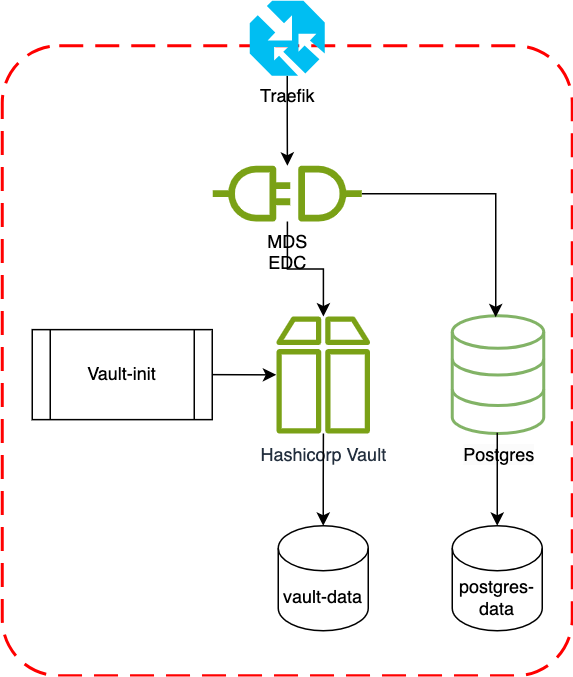
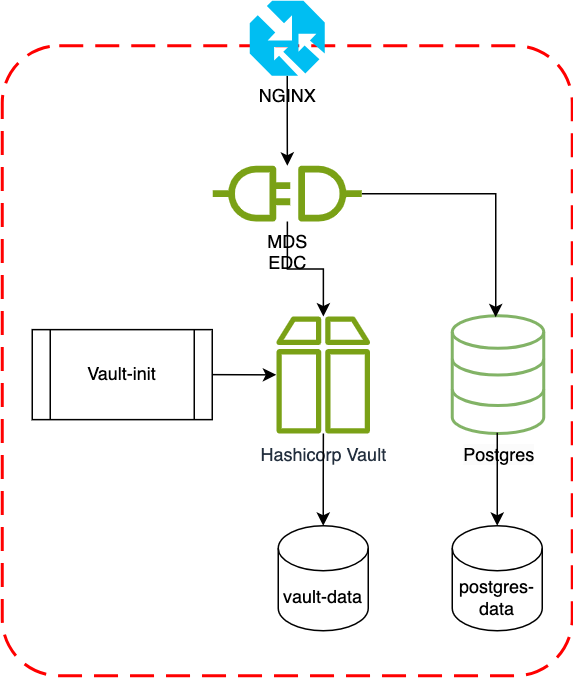
docs: update deployment guides to support Nginx with Certbot for letsencrypt

diff --git a/README.md b/README.md
@@ -24,7 +24,6 @@ docker build --build-arg RUNTIME="connector-inmemory" launchers
 #### Vault PostgreSQL connector
 ### Vault PostgreSQL connector
 ```
-docker build --build-arg RUNTIME="connector-vault-postresql" launchers
 docker build --build-arg RUNTIME="connector-vault-postgresql" launchers
 ```
 
@@ -48,17 +47,17 @@ docker build --build-arg RUNTIME="connector-vault-postgresql" launchers
 
 The deployment architecture consists of the following components:
 
-1. Traefik: Acts as a reverse proxy and handles SSL/TLS termination. It routes incoming requests to the appropriate services and manages Let's Encrypt certificates for HTTPS.
+1. Nginx: Acts as a reverse proxy and handles SSL/TLS termination. It routes incoming requests to the appropriate services.
 
-2. MDS EDC: The core component of the MDS (Mobility Data Space) Connector. It handles data exchange, policy enforcement, and integration with other participants in the dataspace.
+2. Certbot: Manages SSL/TLS certificates using Let's Encrypt for HTTPS.
 
-3. PostgreSQL: Provides persistent storage for the EDC, storing configuration data, policies, and other necessary information.
+3. MDS EDC: The core component of the MDS (Mobility Data Space) Connector. It handles data exchange, policy enforcement, and integration with other participants in the dataspace.
 
-4. Vault: HashiCorp Vault is used for secure secret management. It stores sensitive information such as API keys, certificates, and passwords, which are then injected into the EDC service.
+4. PostgreSQL: Provides persistent storage for the EDC, storing configuration data, policies, and other necessary information.
 
-5. Vault-init: A helper service that initializes and configures the Vault with necessary secrets during deployment.
+5. Vault: HashiCorp Vault is used for secure secret management. It stores sensitive information such as API keys, certificates, and passwords, which are then injected into the EDC service.
 
-This architecture ensures a secure, scalable, and maintainable deployment of the MDS Connector. Traefik handles incoming traffic and SSL, the EDC processes data requests and enforces policies, PostgreSQL provides persistent storage, and Vault manages secrets securely.
+6. Vault-init: A helper service that initializes and configures the Vault with necessary secrets during deployment.
 
 ### Configuration
 
@@ -73,9 +72,9 @@ This architecture ensures a secure, scalable, and maintainable deployment of the
 
    ```
    # MDS EDC Configuration
-   EDC_HOSTNAME=your-domain.com
+   EDC_HOSTNAME=yourdomain.com
    EDC_PARTICIPANT_ID=your-participant-id
-   ACME_EMAIL=your@email.com
+   CERTBOT_EMAIL=your@email.com
 
    # DAPS (Dynamic Attribute Provisioning Service) Configuration
    DAPS_URL=https://daps.demo.mobility-dataspace.eu/realms/DAPS/protocol/openid-connect
@@ -89,10 +88,14 @@ This architecture ensures a secure, scalable, and maintainable deployment of the
 
    # Vault Configuration
    VAULT_TOKEN=your-vault-token
-   VAULT_HOSTNAME=vault.localhost
    ```
 
    Ensure you replace all placeholder values with your actual configuration details.
+
+4. Update the Nginx configuration files:
+   - Edit `init.nginx.conf` and `secure.nginx.conf` to match your domain and desired server configuration.
+   - In both files, replace `yourdomain.com` with your actual domain name.
+   - Adjust any other settings as needed for your specific deployment.
 
    To generate the P12_CONTENT for your .env file:
 
@@ -111,67 +114,80 @@ This architecture ensures a secure, scalable, and maintainable deployment of the
 
    Note: The P12_CONTENT is a required variable in your .env file. It contains the base64 encoded content of your p12 certificate file.
 
-4. (Optional) For testing with self-signed certificates, modify the `traefik` service in `docker-compose.yml`:
-   ```yaml
-   traefik:
-     # ... other configurations ...
-     command:
-       # ... other commands ...
-       - "--certificatesresolvers.myresolver.acme.caserver=https://acme-staging-v02.api.letsencrypt.org/directory"
-   ```
-
-   This uses Let's Encrypt's staging server for testing. Remove this line for production use.
-
 ### Deployment Steps
 
-1. Ensure the `init-vault.sh` script is in the same directory as your `docker-compose.yml` file.
+1. Ensure the `init-vault.sh` and `init-letsencrypt.sh` scripts are in the same directory as your `docker-compose.yml` file.
 
-2. Make the script executable:
+2. Make the scripts executable:
    ```
-   chmod +x init-vault.sh
+   chmod +x init-vault.sh init-letsencrypt.sh
    ```
 
-3. Start the services:
+3. Update your `docker-compose.yml` file to use the initial Nginx configuration:
+   ```yaml
+   nginx:
+     ...
+     volumes:
+       - ./init.nginx.conf:/etc/nginx/nginx.conf
+   ```
+
+4. Initialize SSL certificates:
+   ```
+   ./init-letsencrypt.sh
+   ```
+   This script will start the Nginx service with the initial configuration and set up SSL certificates using Let's Encrypt. It will prompt you to confirm before replacing any existing certificates.
+
+5. After successfully obtaining the certificates, update your `docker-compose.yml` file to use the secure Nginx configuration:
+   ```yaml
+   nginx:
+     ...
+     volumes:
+       - ./secure.nginx.conf:/etc/nginx/nginx.conf
+   ```
+
+6. Start all services with the secure configuration:
    ```
    docker compose up -d
    ```
+   This will start all services, including the automated Vault initialization, and Nginx with SSL/TLS enabled.
 
-   This will start all services, including the automated Vault initialization.
-
-4. Verify that all services are running:
+7. Verify that all services are running:
    ```
    docker compose ps
    ```
 
-5. The services should now be running:
-    - EDC: https://your-domain.com
-    - Vault: https://vault.your-domain.com
-    - Traefik Dashboard: http://your-domain.com:8080 (if enabled)
-
 ### Usage
 
-- API: https://your-domain.com/api
-- Control: https://your-domain.com/control
-- Management: https://your-domain.com/management
-- Protocol: https://your-domain.com/protocol
-- Public: https://your-domain.com/public
-- Version: https://your-domain.com/version
+The EDC services are now available at the following URLs:
+
+- API: https://yourdomain.com/api
+- Control: https://yourdomain.com/control
+- Management: https://yourdomain.com/management
+- Protocol: https://yourdomain.com/protocol
+- Public: https://yourdomain.com/public
+- Version: https://yourdomain.com/version
+
+Replace `yourdomain.com` with the actual domain you've configured in your `.env` file.
 
 ### Security Notes
 
 - All external access is enforced over HTTPS using Let's Encrypt SSL certificates.
 - Secrets are securely stored in HashiCorp Vault and injected into the EDC service.
 - The EDC service uses PostgreSQL for persistent storage.
-- Traefik is configured to automatically handle SSL/TLS certificates.
+- Nginx is configured to handle SSL/TLS termination and reverse proxy to the EDC services.
 
 ### Troubleshooting
 
-- Check container logs: `docker-compose logs [service-name]`
+- Check container logs: `docker compose logs [service-name]`
 - Ensure all environment variables are correctly set in the `.env` file
 - Verify that your domain is pointing to the correct IP address
 - If you need to reinitialize the Vault or add more secrets, modify the `init-vault.sh` script and run:
   ```
   docker compose up -d --no-deps vault-init
+  ```
+- If you need to renew SSL certificates, you can re-run the `init-letsencrypt.sh` script:
+  ```
+  ./init-letsencrypt.sh
   ```
 
 For more detailed information on EDC configuration and usage, refer to the official Eclipse Dataspace Connector documentation.
